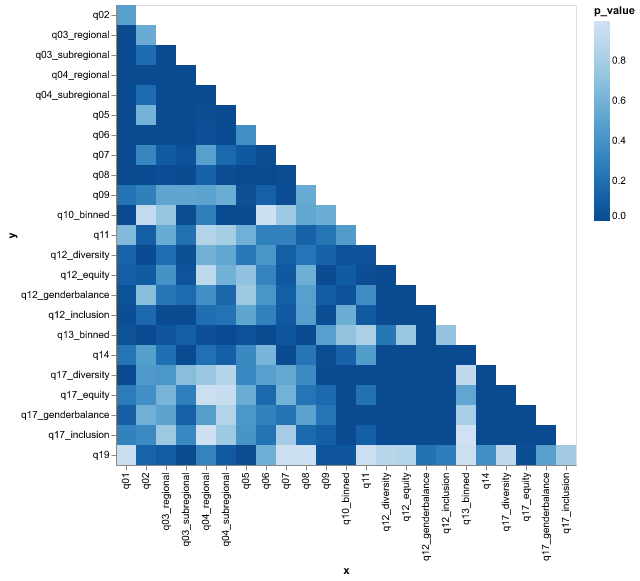
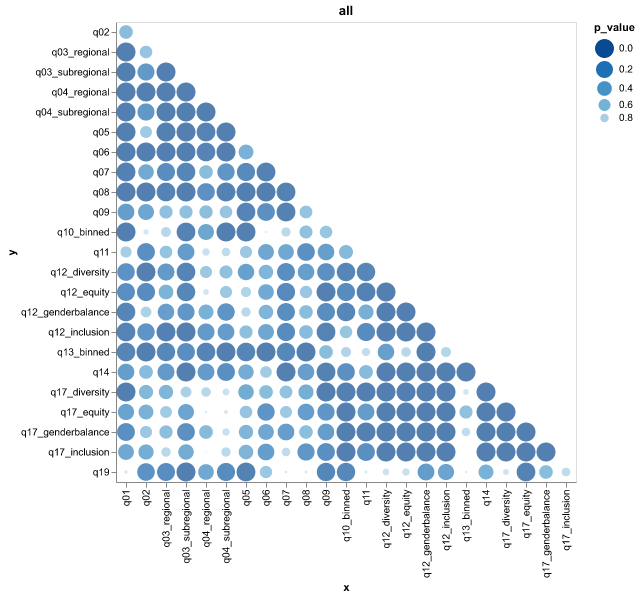
bump: version 0.4.1 → 0.5.0

diff --git a/titanite/__init__.py b/titanite/__init__.py
@@ -1,4 +1,4 @@
-__version__ = "0.4.1"
+__version__ = "0.5.0"
 
 from .config import Config, Data
 from .core import group_data

diff --git a/CHANGELOG.md b/CHANGELOG.md
@@ -1,3 +1,119 @@
+## 0.5.0 (2023-09-17)
+
+### Feat
+
+- **docs/notebooks/demographics/q01_age_group.ipynb**: demographicsを確認するノートブックを追加した
+- **data/main_data/**: 発表用の図を追加した
+- **titanite/core.py**: hbar: ヒストグラムを追加した
+- **titanite/preprocess.py**: クラスター分割を追加した
+- **titanite/cli.py**: hbarコマンドを追加した
+- **titanite/config.py**: Data.matches: 総当たりしたカラムを取得する機能を追加した
+
+### Fix
+
+- **notebooks**: ノートブックを整理した
+- **titanite/preprocess.py**: categorical_data: 変換マップを追加した
+- **renamed**: docs/notebooks -> docs/logbooks に変更した
+- **sandbox/config.toml**: アンケートに関係する全体の数値を追記した
+- **pyproject.toml**: update loguru
+- **titanite/config.py**: 廃止予定のメッセージ（のデコレータ）を追加した
+- **pyproject.toml**: add deprecated
+- **titanite/config.py**: Config: optionsのメンバー変数を追加した
+- **notebooks/00_config.ipynb**: 設定オプションをデータフレームにする
+- **sandbox/config.toml**: 新しい設定オプションを追加した
+- **docs/notebooks/responses.ipynb**: メールした日を追加した
+- **docs/notebooks/responses.ipynb**: 回答数の推移を追加した
+- **data/test_data/chi2_test/chi2_test.csv**: chi2したデータを追加した
+- **docs/notebooks/demographics.ipynb**: 微修正した
+- **docs/notebooks/demographics.ipynb**: 円グラフの周囲に値を表示した
+- **titanite/config.py**: countを削除；responseと重複
+- **.gitignore**: PDFを除外した（一時的）
+- **data/test_data/sentiment_data.csv**: 感情分析用のデータを追加した
+- **data/test_data/categorical_data.csv**: 相関を集計するためのデータを追加した
+- **titanite/preprocess.py**: save_data: 相関を確認する用と感情分析用のデータに分けて保存することにした
+- **titanite/cli.py**: prepare: 前処理で残すデータ形式を追加した
+- **titanite/preprocess.py**: 前処理の手順を修正した
+- **titanite/config.py**: 使わなくなった変数をコメントアウトした
+- **docs/notebooks/wip/q12q17_bubblechart.ipynb**: q12とq17のバブル図を作成した
+- **docs/notebooks/wip/q01_age_group.ipynb**: パスを変更した
+- **docs/notebooks/chi2_test_map.ipynb**: ヒートマップを作成するw関数をシンプルにした
+- **docs/notebooks/chi2_test_map.ipynb**: ファイル名を変更した
+- **docs/notebooks/demographics.ipynb**: 軸ラベルのフォントサイズを大きくした
+- **docs/notebooks/demographics.ipynb**: プロットのサイズを変更した
+- **docs/notebooks/demographics.ipynb**: 読み込むデータのパスを修正した
+- **titanite/config.py**: Data.read: カウント用のカラムを追加した
+- **docs/notebooks/demographics.ipynb**: パスを変更した
+- **docs/notebooks/demographics/demographics.ipynb**: 1次元の軸のデモグラフィックを追加した
+- **docs/notebooks/demographics/demographics.ipynb**: demographicsを1次元で確認するノートブックを追加した
+- **docs/notebooks/chi2_map.ipynb**: ファイル名を変更した
+- **docs/notebooks/10_chi2_map.ipynb**: ファイルを移動した
+- **docs/notebooks/icrc2023_diversity.ipynb**: ファイルを移動した
+- **notebooks/10_chi2_map.ipynb**: 保存する画像ファイルの名前を変更した
+- **renamed**: 画像のファイル名を変更した
+- **notebooks/10_chi2_map.ipynb**: 色の順番を反対にした
+- **typst/questions.typ**: 質問表を更新した
+- **notebooks/10_chi2_map.ipynb**: カイ二乗検定のp値マップを追加した
+- **notebooks/10_chi2_map.ipynb**: 相関関系の図を追加した
+- **typst/questions.typ**: 質問表を更新した
+- **typst/questions.typ**: 質問票を作成した
+- **notebooks/10_chi2_map.ipynb**: p値マップを追加した
+- **titanite/core.py**: crosstab_loop: chi2のデータフレームにx軸とy軸のカラム名を追加した
+- **notebooks/10_stats.ipynb**: 参加者の内訳を確認した
+- **notebooks/icrc2023_diversity.ipynb**: q04（出身地）もクラスタにしてみた
+- **notebooks/icrc2023_diversity.ipynb**: 画像のサイズを変更した
+- **notebooks/icrc2023_diversity.ipynb**: 発表用のノートブックを更新した
+- **titanite/cli.py**: 微修正
+- **data/test_data/prepared_data.csv**: 集約データを更新した
+- **typst/q15.typ**: 感情分析について追記した
+- **notebooks/03_hbar.ipynb**: ヒストグラムの確認
+- **notebooks/icrc2023_diversity.ipynb**: 発表で使う図を作るノートブックを作成した
+- **titanite/cli.py**: hbarコマンドを追加した
+- **titanite/config.py**: Data: ヘッダを扱う内部変数を整理した
+- **titanite/cli.py**: hbarコマンドを追加した
+- **titanite/core.py**: hbar, hbar_loop: 追加した
+- **titanite/core.py**: group_data, group_hbar: 全体的に書き換えた
+- **titanite/config.py**: matches: ignore -> valid に置き換えた
+- **notebooks/06_cluster.ipynb**: クラスタを確認するノートを追加した
+- **titanite/preprocess.py**: クラスタの条件を修正した
+- **titanite/preprocess.py**: クラスターを追加した
+- **titanite/preprocess.py**: categorical_data: クラスター分類をカテゴリ型に変換する処理を追加した
+- **titanite/preprocess.py**: categorical_data: リファクタリング
+- **data/test_data/prepared_data.csv**: クラスターを追加した
+- **titanite/cli.py**: prepare: Configクラス変更に伴う修正をした
+- **notebooks/06_cluster.ipynb**: クラスター分割
+- **titanite/config.py**: カテゴリに関する内部変数を変更した
+- **notebooks/00_config.ipynb**: ちょっと更新した
+- **titanite/config.py**: 設定を読み込む部分を見直した
+- **config.toml**: clusterのカテゴリを追加した
+- **titanite/cli.py**: validなリストを追加した
+- **typst/slide.typ**: 更新した
+- **typst/slide.typ**: 確認したことを追加した
+- **typst/slide.typ**: 微修正
+- **titanite/cli.py**: configコマンドを整理した
+- **titanite/config.py**: Config.load_toml: ファイルの存在確認を追加した
+- **notebooks/02_response.ipynb**: responseを分離した
+- **titanite/core.py**: hbar: ヒストグラム機能を追加した
+- **notebooks/10_quick_summary.ipynb**: 再実行した
+- **titanite/cli.py**: crosstabsからchi2を分離した
+- **typst/data**: symlinkを追加した
+- **notebooks/06_cluster.ipynb**: 新しいクラスタを見つけて確認中
+- **sandbox/config.toml**: 質問の番号キーを修正した
+- **titanite/cli.py**: 保存するパスを修正した
+- **typst/slide.typ**: 読み込むファイルのバスを修正した
+- **titanite/cli.py**: crosstabsコマンドの保存先を変更した
+- **titanite/core.py**: response: ヒートマップに戻した
+- **titanite/cli.py**: p005: 引数チェックを追加した
+- **titanite/cli.py**: p < 0.05 のデータをカラムごとに作成できるようにした
+- **notebooks/q01_age.ipynb**: 年齢との相関を確認した
+- **typst**: 極性に合わせて文字色を変更した
+- **titanite/core.py**: comment_data: q11でソートした
+- **notebooks/q02_gender.ipynb**: 再実行した
+- **titanite/core.py**: clusterのカラムを追加した
+- **titanite/config.py**: Dataクラスにconfigメソッドを追加した
+- **notebooks/02_insight.ipynb**: 箱ひげ図を追加した
+- **notebooks/q15_sentiment.ipynb**: 感情分析を追加した
+- **titanite/config.py**: カラム名を数値型とカテゴリ型にわけた
+
 ## 0.4.1 (2023-07-23)
 
 ### Fix
